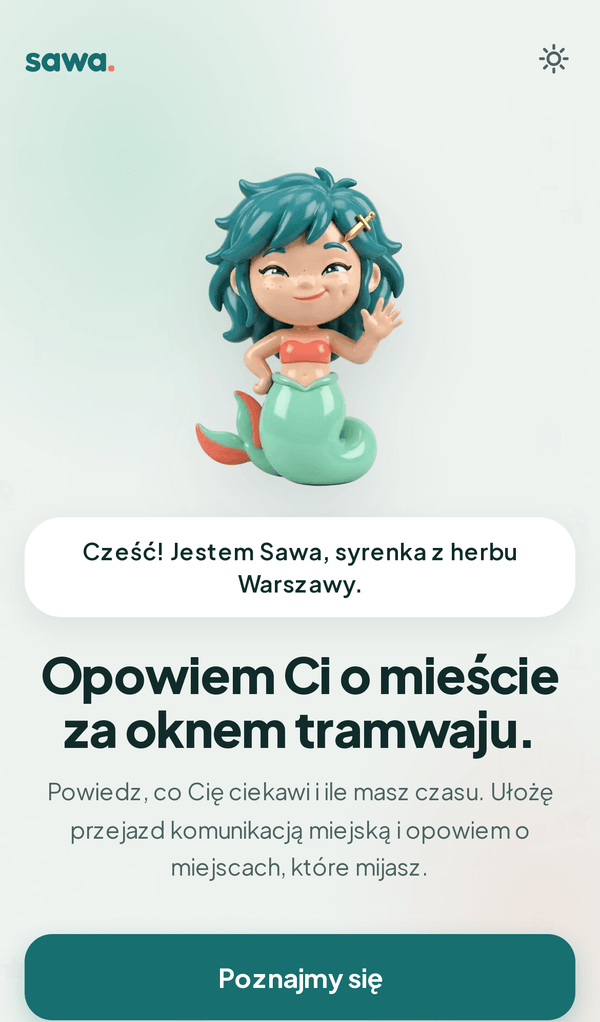
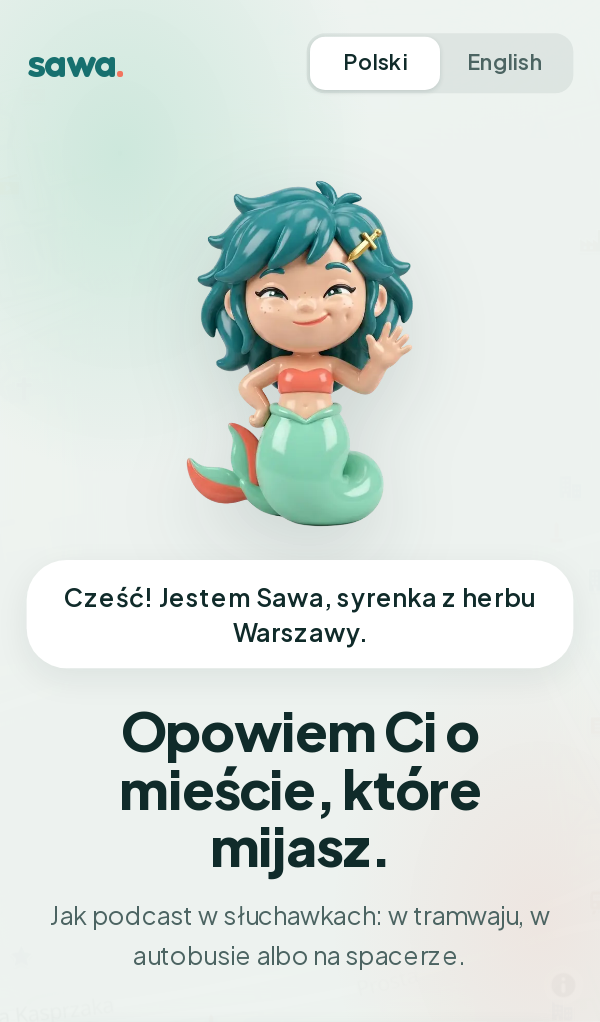
readme: nowe zrzuty z produkcji, założenia i ograniczenia, muzyka w tle (#175)

diff --git a/README.md b/README.md
@@ -12,9 +12,9 @@ Warsaw Open Data Hackathon 2026 · 17–18.10 · 42 Warsaw
 
 </div>
 
-| Poznaj Sawę | Ile masz czasu? | Trasa i opowieść | Przesiadki i odjazdy |
+| Poznaj Sawę | Ile masz czasu? | Trasa na mapie | Opowieść na żywo |
 |:---:|:---:|:---:|:---:|
-| <img src="docs/img/readme-1-start.png" width="200" alt="Ekran powitalny z Sawą" /> | <img src="docs/img/readme-2-czas.png" width="200" alt="Wybór czasu przejażdżki" /> | <img src="docs/img/readme-3-trasa.png" width="200" alt="Trasa na mapie i odtwarzacz opowieści" /> | <img src="docs/img/readme-4-odjazdy.png" width="200" alt="Przebieg trasy i godziny odjazdów" /> |
+| <img src="docs/img/readme-1-start.png" width="200" alt="Ekran powitalny z Sawą" /> | <img src="docs/img/readme-2-czas.png" width="200" alt="Wybór czasu przejażdżki" /> | <img src="docs/img/readme-3-trasa.png" width="200" alt="Trasa na mapie i odtwarzacz opowieści" /> | <img src="docs/img/readme-4-opowiesc.png" width="200" alt="Tekst opowieści z podświetlonym fragmentem" /> |
 
 ## Problem
 
@@ -29,7 +29,24 @@ Sawa to aplikacja na telefon dla nowych mieszkańców, dojeżdżających i każd
 1. **Onboarding:** wybierasz zainteresowania (historia, kultura, sport, przyroda), to, jak dobrze znasz miasto, styl opowieści i kto słucha (dorosły czy dziecko). Bez konta, profil zostaje w telefonie. Aplikacja działa po polsku i po angielsku.
 2. **Trasa:** podajesz czas albo cel. Planer układa przejazd tramwajami i autobusami ZTM (z odcinkami pieszymi) tak, żeby po drodze było jak najwięcej miejsc pasujących do Ciebie.
 3. **Jazda:** mapa pokazuje trasę, przystanki i pojazdy na żywo, a Sawa milczy, dopóki nie zbliżysz się do pierwszego miejsca.
-4. **Opowieść:** przy każdym miejscu LLM układa krótką opowieść wyłącznie z faktów z naszej bazy (każdy ze źródłem). Opcjonalnie czyta ją głos Sawy. Sawa pamięta, co już słyszałeś, i nie powtarza się.
+4. **Opowieść:** przy każdym miejscu LLM układa krótką opowieść wyłącznie z faktów z naszej bazy (każdy ze źródłem). Opcjonalnie czyta ją głos Sawy. Sawa pamięta, co już słyszałeś, i nie powtarza się. Między miejscami może grać cicha muzyka w tle, składana na żywo w przeglądarce, bez plików nagrań (włącza się w menu Sawy).
+
+## Założenia i ograniczenia
+
+**Założenia:**
+
+- Słuchacz jedzie tramwajem albo autobusem ZTM (albo idzie pieszo) i ma telefon, najlepiej ze słuchawkami.
+- Bez konta: profil, ustawienia i historia wysłuchanych opowieści zostają w pamięci przeglądarki na telefonie.
+- Sawa mówi tylko to, co jest w bazie faktów. Gdy o miejscu nie ma nic ciekawego, milczy, zamiast zmyślać.
+- Długość opowieści wynika z czasu dojazdu do następnego miejsca, a ten z rozkładu i pozycji pojazdów.
+
+**Ograniczenia:**
+
+- Planer układa trasy z tramwajów, autobusów i odcinków pieszych. Metra, SKM i Kolei Mazowieckich nie obejmuje.
+- Najwięcej miejsc ma baza na Woli i w Śródmieściu (wokół 42 Warsaw). W dalszych dzielnicach punktów jest mniej.
+- Fakty sprawdzał automatycznie skrypt, ale tylko pod kątem lat. Nazwisk i liczb nikt nie zweryfikował ręcznie (szczegóły w sekcji „Użycie AI”).
+- Gdy API miasta nie odpowiada, godziny odjazdów są szacowane z rozkładu GTFS, a pozycje pojazdów mogą być nieaktualne.
+- Głos Sawy jest domyślnie wyłączony, bo każda nowa opowieść kosztuje. Włącza go `?voice=1` w adresie.
 
 ## Dane
 

diff --git a/docs/todo.md b/docs/todo.md
@@ -135,7 +135,7 @@ Paweł robi frontend i generowanie głosu (T-43). Opowieści (T-45, T-41, T-42) 
 - [~] **T-126** Trasa pieszo: zahaczać o punkty (nie linia prosta do nich w przecznicy) i nie wracać tą samą drogą — `R1` (Szczepan z agentem: miejsca dobierane wzdłuż wybranej ścieżki OSRM, PR #100 zmergowany; planowanie ścieżki bez zmian, PR #108 zamknięty na prośbę Szczepana; zostaje test na telefonie po deployu; własny OSRM w kontenerze `api` zmergowany w #121 (T-153), planer na ścieżkach OSRM z #121 cofnięty, czeka na `WALK_ROUTER_URL` na Railway i redeploy) — przed testem na telefonie
 - [ ] **T-127** Sub-kind miejsc w bazie (np. budynki, instytucje), każdy typ z własną ikoną; wpływ na schemat i ikony — `R2` (Jasiek, do potwierdzenia) — przed zamrożeniem
 - [ ] **T-114** Pitch pod „Warszawa 2076” według uwag mentorów (spotkanie 19:30): kto jest odbiorcą, co miasto zyska za 50 lat, dowód, że dane miasta dają wartość; sprawdzić źródło liczby „20% warszawiaków spoza Warszawy”; z gotową prezentacją do Bartka (Play) — `R2` (z T-50). Plan: [pitch/plan-pitchu.md](pitch/plan-pitchu.md) (Paweł, 17.10 w nocy), zadania w §10
-- [~] **T-53** Opis zakresu użycia AI (z historii git, PR-ów i archiwum `ai-log.md`) i dokumentacja na oddanie (`README.md`, regulamin §4 ust. 4) — `R2` — niedziela 10:30 · Jasiek od 17.10: README pod jury gotowe (zrzuty ekranu, problem, zbiory z licencjami, architektura, stack, użycie AI); sekcja AI do przejrzenia przez Pawła (issue #77); 17.10: sekcja uzupełniona (modele grafik, źródła faktów, film, plan pitchu), PR do #77
+- [~] **T-53** Opis zakresu użycia AI (z historii git, PR-ów i archiwum `ai-log.md`) i dokumentacja na oddanie (`README.md`, regulamin §4 ust. 4) — `R2` — niedziela 10:30 · Jasiek od 17.10: README pod jury gotowe (zrzuty ekranu, problem, zbiory z licencjami, architektura, stack, użycie AI); sekcja AI do przejrzenia przez Pawła (issue #77); 17.10: sekcja uzupełniona (modele grafik, źródła faktów, film, plan pitchu), PR do #77; 18.10, 9:50: nowe zrzuty z produkcji, sekcja „Założenia i ograniczenia”, muzyka w tle
 - [ ] **T-54** Checklista z [06-plan-dnia.md](06-plan-dnia.md): repo, deck, dokumentacja, nagranie — `R2` — niedziela 10:30
 
 ## Z przeglądu stanu (Jasiek, 15:00; numery T-90+, bo T-76 zajął R1)
